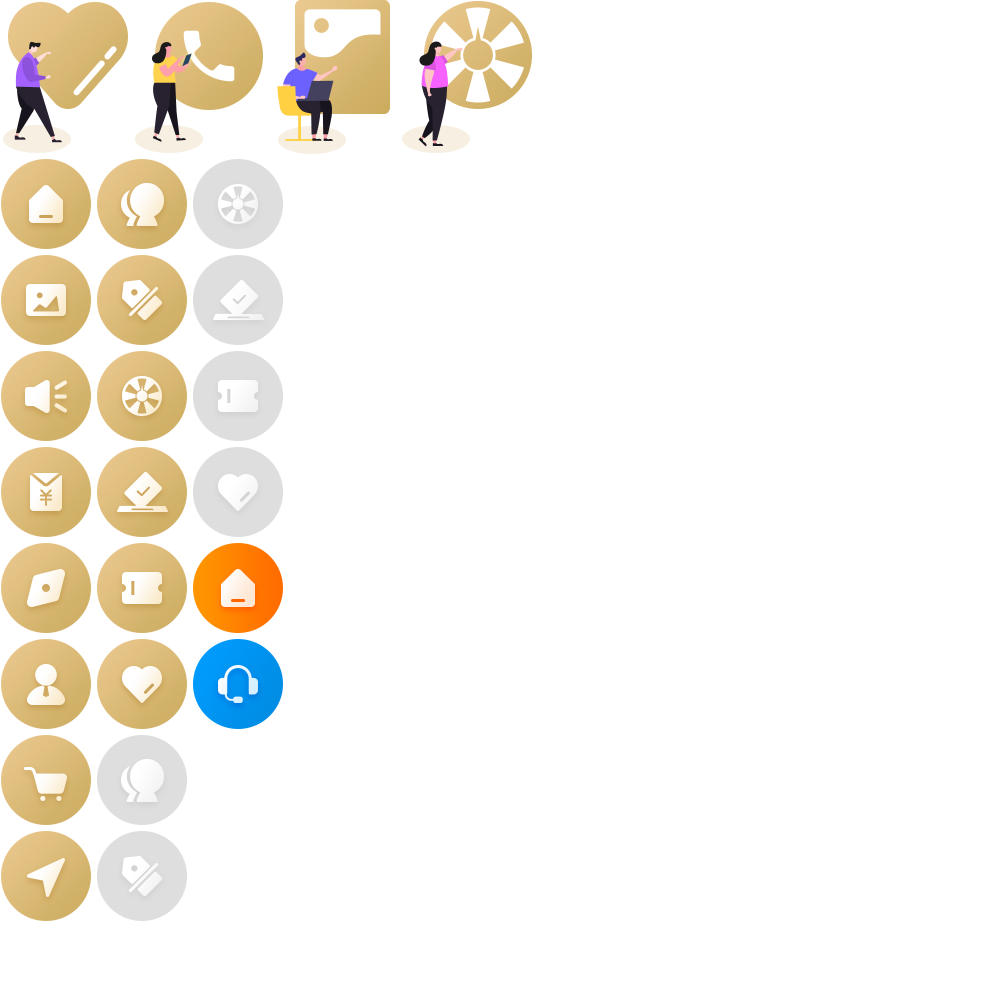
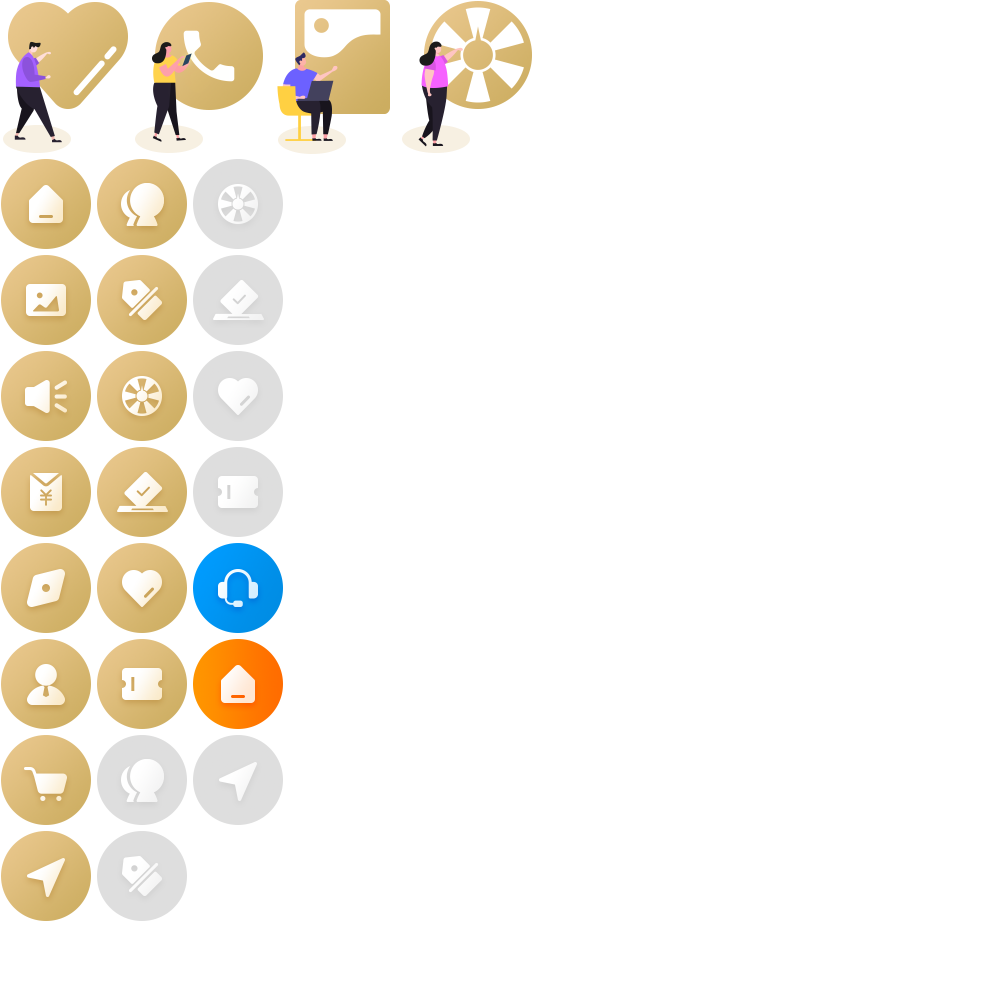
2019.11.26

diff --git a/settled-in/publicity-page.html b/settled-in/publicity-page.html
@@ -207,7 +207,7 @@
                     <p>在线买单</p>
                 </li> 
                 <li>
-                    <i class="icon01" style="background-position:0 -41.5rem;"></i>
+                    <i class="icon01" style="background-position:-9.6rem -36.7rem;"></i>
                     <p>发布商品</p>
                 </li>    
                 <li>

diff --git a/settled-in/claim-page.html b/settled-in/claim-page.html
@@ -79,7 +79,7 @@
                     <p>在线买单</p>
                 </li> 
                 <li>
-                    <i class="icon01" style="background-position:0 -41.5rem;"></i>
+                    <i class="icon01" style="background-position:-9.6rem -36.7rem;"></i>
                     <p>发布商品</p>
                 </li>    
                 <li>

diff --git a/settled-in/upgrade-renewals.html b/settled-in/upgrade-renewals.html
@@ -69,7 +69,7 @@
                     <p>在线买单</p>
                 </li> 
                 <li>
-                    <i class="icon01" style="background-position:0 -41.5rem;"></i>
+                    <i class="icon01" style="background-position:-9.6rem -36.7rem;"></i>
                     <p>发布商品</p>
                 </li>    
                 <li>
